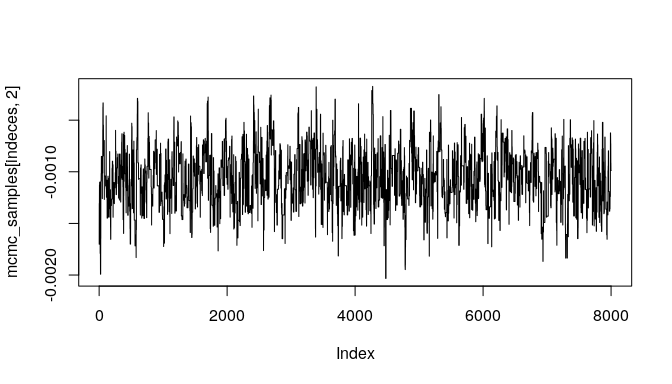
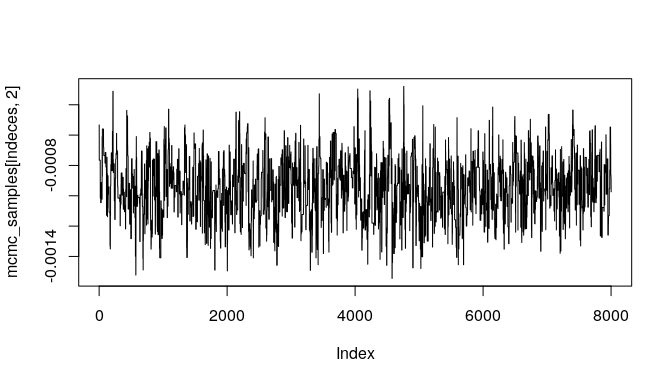
README edits

diff --git a/README.md b/README.md
@@ -39,19 +39,19 @@ nintervals <- 1000
 times <- 5000:4001
 beta <- -0.004
 process <- exp(1:nintervals * beta)
-nevents <- 100
+nevents <- 200
 nsamples <- 10000
 sim_sequences <- simulate_event_counts(process = process,
                             times = times,
                             nevents = nevents,
                             nsamples = nsamples,
                             bigmatrix = F,
-                            parallel = F)
+                            parallel = T)
 #> Simulating and calibrating c14 dates.
 #> Simulating event count sequences.
 ```
 
-There are two optional arguments included in the function call above, 'bigmatrix' and 'parallel'. In practice, a very large number of plausible event count sequences should be explored in order to account for the chronological uncertainty represented by the joint-density of radiocarbon-dates for a set of events. It is also increasingly common in the academic literature for the number of radiocarbon samples analyzed to be quite large (hundreds to tens-of-thousands of dates). So, to accommodate the large number of plausible count sequences that should be drawn---which can run into the millions---the chronup package can make use of parallelization for sampling and the R package 'bigmemory' for handling large matrices. The 'parallel' and 'bigmatrix' options were set to 'F' because CRAN necessarily limits the computational resources required for producing vignettes, so they were not used for this demonstration. In practice, though, many more cores may be needed to run a real analysis involving hundreds to thousands of dates and a bigmemory matrix may be required to store and manipulate millions of sampled event count sequences.
+There are two optional arguments included in the function call above, 'bigmatrix' and 'parallel'. In practice, a very large number of plausible event count sequences should be explored in order to account for the chronological uncertainty represented by the joint-density of radiocarbon-dates for a set of events. It is also increasingly common in the academic literature for the number of radiocarbon samples analyzed to be quite large (hundreds to tens-of-thousands of dates). So, to accommodate the large number of plausible count sequences that should be drawn---which can run into the millions---the chronup package can make use of parallelization for sampling and the R package 'bigmemory' for handling large matrices. The 'bigmatrix' option was set to 'F' because the simulated dataset is reasonable small. In practice, though, many more cores may be needed to run a real analysis involving hundreds to thousands of dates and a bigmemory matrix may be required to store and manipulate millions of sampled event count sequences.
 
 With the sampled sequences in hand, it will be useful to visualize the data. First, we can plot the event-generating process, reversing the plot axis so that time flows left-to-right:
 
@@ -120,9 +120,9 @@ X <- matrix(
         nrow = n)
 
 dim(Y)
-#> [1]  1357 10000
+#> [1]  1301 10000
 dim(X)
-#> [1]  1357 20000
+#> [1]  1301 20000
 
 Y[1:5, 1:10]
 #>      [,1] [,2] [,3] [,4] [,5] [,6] [,7] [,8] [,9] [,10]
@@ -181,13 +181,13 @@ mcmc_samples <- regress(Y = Y,
 #> 
 
 head(mcmc_samples)
-#>           [,1]         [,2]
-#> [1,] -1.992158 -0.001047176
-#> [2,] -1.992158 -0.001047176
-#> [3,] -1.992158 -0.001047176
-#> [4,] -1.992158 -0.001047176
-#> [5,] -1.992158 -0.001047176
-#> [6,] -1.992158 -0.001047176
+#>           [,1]          [,2]
+#> [1,] -1.320313 -0.0009553337
+#> [2,] -1.320313 -0.0009553337
+#> [3,] -1.320313 -0.0009553337
+#> [4,] -1.246605 -0.0008893117
+#> [5,] -1.246605 -0.0008893117
+#> [6,] -1.246605 -0.0008893117
 ```
 
 When 'adapt' is set to 'FALSE', the function returns the MCMC chains. With enough iterations, the chains will likely contain good samples of the posterior distributions corresponding to the model's parameters. These can be inspected further with standard tools, including those in the 'coda' MCMC package. Here will will simply plot the chains as line-plots and then plot some density estimates to get a quick look at the results:
@@ -254,16 +254,16 @@ mcmc_samples <- regress(Y = Y[indeces,],
 #> 
 
 head(mcmc_samples)
-#>            [,1]         [,2]
-#> [1,] -0.2290916 -0.003328936
-#> [2,] -0.2290916 -0.003328936
-#> [3,] -0.4475525 -0.003148933
-#> [4,] -0.3573578 -0.003383181
-#> [5,] -0.3573578 -0.003383181
-#> [6,] -0.3573578 -0.003383181
+#>           [,1]         [,2]
+#> [1,] 0.4106506 -0.003233014
+#> [2,] 0.2986423 -0.003068006
+#> [3,] 0.2986423 -0.003068006
+#> [4,] 0.2986423 -0.003068006
+#> [5,] 0.2986423 -0.003068006
+#> [6,] 0.2986423 -0.003068006
 ```
 
-As the plots below indicate, the initial bias is significantly reduced and the true parameter estimate ('beta', which was set to -0.004 above) is within the 95% credible interval of the estimated posterior distribution. Again, many more MCMC iterations will be required in order to arrive at good estimates of posterior distributions for the model parameters. The additional iterations will come from increasing the number of randomly sampled probable event count sequences. As a result, an even better estimate of the overall chronological uncertainty in the data can be obtained and then propagated up to the regression model parameter estimates. Additionally, using a Negative-Binomial (NB-REC) model instead would further reduce the bias, especially if the complete time domain of the event count ensemble is being anlayzed instead of a subinterval.
+As the plots below indicate, the initial bias is significantly reduced and the true parameter estimate ('beta', which was set to -0.004 above) is within the 95% credible interval of the estimated posterior distribution. Again, many more MCMC iterations will be required in order to arrive at good estimates of posterior distributions for the model parameters. The additional iterations will come from increasing the number of randomly sampled probable event count sequences. As a result, an even better estimate of the overall chronological uncertainty in the data can be obtained and then propagated up to the regression model parameter estimates. Additionally, using a Negative-Binomial (NB-REC) model instead would further reduce the bias, especially if the complete time domain of the event count ensemble is being analyzed instead of a subinterval.
 
 ``` r
 burnin <- floor(dim(mcmc_samples)[1] * 0.2)
